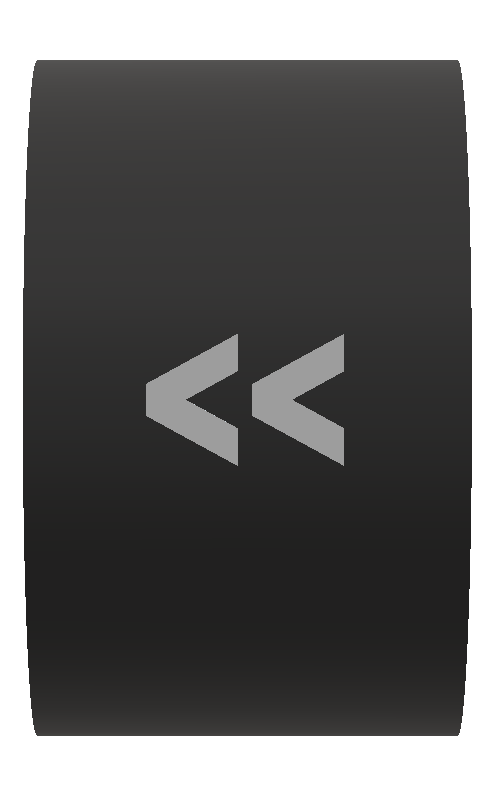
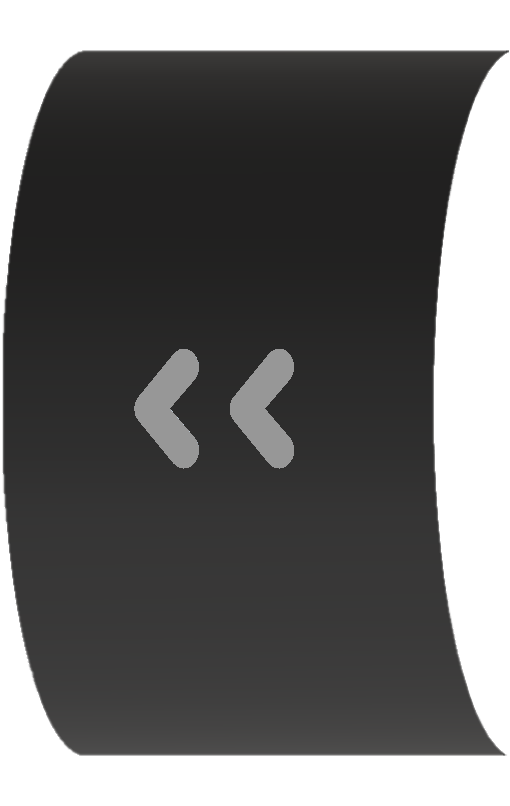
Improved graphics and fonts; scoreboard skeleton added; fonts to be gitignored for now

diff --git a/partillery/controls.py b/partillery/controls.py
@@ -1,7 +1,10 @@
 import pygame
 
 col_screen = 10, 10, 10
-col_text = 200, 200, 200
+col_text_white = 230, 230, 230
+# col_text_yellow = 210, 196, 62
+# col_text_yellow = 255, 255, 128
+col_heading = 255, 210, 150
 col_fire = 200, 100, 40
 col_power = 200, 20, 40
 default_angle_val = 60
@@ -10,8 +13,10 @@ default_power_val = 50
 
 class ControlPanel:
     def __init__(self, screen: pygame.Surface, cpl_x, cpl_y, cpl_w, cpl_h, control_scale):
-        control_img = pygame.image.load(
-            "C:\\Data\\Study\\cloud\\___python_game\\partillery\\resources\\images\\control_panel.png").convert()
+        # control_img = pygame.image.load(
+          #  "C:\\Data\\Study\\cloud\\___python_game\\partillery\\resources\\images\\control_panel.png").convert()
+        control_img = pygame.image.load("../resources/images/control_panel_3.png").convert()
+
         self.surf = pygame.transform.scale(control_img, (cpl_w, cpl_h))
         self.rect = self.surf.get_rect()
         self.rect.x = cpl_x
@@ -19,86 +24,107 @@ class ControlPanel:
         screen.blit(self.surf, (cpl_x, cpl_y))
 
         # add and draw control elements
-        sec_w = cpl_w / 5
+
+
+        '''sec_w = cpl_w / 5
         wp_x = sec_w
         angle_x = sec_w * 2
         power_x = sec_w * 3
-        fire_x = sec_w * 4
-        text_y = self.rect.y + self.rect.h * 0.25
-        control_baseline_y = self.rect.y + self.rect.h * 0.4  # setting up a y-axis center line for controls
+        fire_x = sec_w * 4 '''
 
-        # load images
-        wp_img = pygame.image.load("C:\\Data\\Study\\cloud\\___python_game\\partillery\\resources\\images\\wp_list.png")
-        angle_img = pygame.image.load("C:\\Data\\Study\\cloud\\___python_game\\partillery\\resources\\images\\param_window.png")
-        angle_right_img = pygame.image.load("C:\\Data\\Study\\cloud\\___python_game\\partillery\\resources\\images\\inc_button.png")
-        angle_left_img = pygame.image.load("C:\\Data\\Study\\cloud\\___python_game\\partillery\\resources\\images\\dec_button.png")
-        power_img = pygame.image.load("C:\\Data\\Study\\cloud\\___python_game\\partillery\\resources\\images\\param_window.png")
-        power_bar_img = pygame.image.load("C:\\Data\\Study\\cloud\\___python_game\\partillery\\resources\\images\\power_bar.png")
-        power_inc_img = pygame.image.load("C:\\Data\\Study\\cloud\\___python_game\\partillery\\resources\\images\\inc_button.png")
-        power_dec_img = pygame.image.load("C:\\Data\\Study\\cloud\\___python_game\\partillery\\resources\\images\\dec_button.png")
-        fire_img = pygame.image.load("C:\\Data\\Study\\cloud\\___python_game\\partillery\\resources\\images\\param_window.png")
-        fire_text_img = pygame.image.load("C:\\Data\\Study\\cloud\\___python_game\\partillery\\resources\\images\\fire_text.png")
+        w1 = cpl_w / 5
+        rw = cpl_w - w1
+        sec_w = rw / 5
+        wp_x = w1
+        angle_x = w1 + sec_w
+        power_x = w1 + sec_w * 2
+        fire_x = w1 + sec_w * 3
 
-        # scale images
+        control_baseline_y = self.rect.y + self.rect.h * 0.45  # setting up a y-axis center line for controls
+
+        # create surfaces
+
+        wp_img = pygame.image.load("../resources/images/wp_list.png")
+        angle_img = pygame.image.load("../resources/images/param_window.png")
+        angle_dec_img = pygame.image.load("../resources/images/inc_button.png")
+        angle_inc_img = pygame.image.load("../resources/images/dec_button.png")
+        power_img = pygame.image.load("../resources/images/param_window.png")
+        power_bar_img = pygame.image.load("../resources/images/power_bar.png")
+        power_inc_img = pygame.image.load("../resources/images/inc_button.png")
+        power_dec_img = pygame.image.load("../resources/images/dec_button.png")
+        fire_img = pygame.image.load("../resources/images/param_window.png")
+        fire_text_img = pygame.image.load("../resources/images/fire_text.png")
+
+        # scale surfaces
+
         wp_surf = scale(wp_img, control_scale)
-        angle_left_surf = scale(angle_left_img, control_scale)
+        angle_inc_surf = scale(angle_inc_img, control_scale)
         angle_surf = scale(angle_img, control_scale)
-        angle_right_surf = scale(angle_right_img, control_scale)
+        angle_dec_surf = scale(angle_dec_img, control_scale)
         power_dec_surf = scale(power_dec_img, control_scale)
         power_surf = scale(power_img, control_scale)
         power_inc_surf = scale(power_inc_img, control_scale)
         power_bar_surf = scale(power_bar_img, control_scale)
         fire_surf = scale(fire_img, control_scale)
         fire_text_surf = scale(fire_text_img, control_scale / 1.2)
+        scoreboard_surf = pygame.Surface((int(sec_w * 0.8), int(cpl_h * 0.8)))
 
         # get rects with simple names
+
         self.wp = wp_surf.get_rect()
-        self.angle_left = angle_left_surf.get_rect()
+        self.angle_inc = angle_inc_surf.get_rect()
         self.angle_sel = angle_surf.get_rect()
-        self.angle_right = angle_right_surf.get_rect()
+        self.angle_dec = angle_dec_surf.get_rect()
         self.power_dec = power_dec_surf.get_rect()
         self.power = power_surf.get_rect()
         self.power_inc = power_inc_surf.get_rect()
         self.power_bar = power_bar_surf.get_rect()
         self.fire = fire_surf.get_rect()
         self.fire_text = fire_text_surf.get_rect()
+        self.scoreboard = scoreboard_surf.get_rect()
 
         # set positions
+
         self.wp.center = (wp_x + angle_x) / 2, control_baseline_y
         self.angle_sel.center = (angle_x + power_x) / 2, control_baseline_y
         self.power.center = (power_x + fire_x) / 2, control_baseline_y
-        self.power_bar.center = (power_x + fire_x) / 2, (control_baseline_y + self.rect.bottom) / 2
-        self.fire.center = (fire_x + self.rect.right) / 2, (self.rect.y + self.rect.h / 2)
-        self.angle_left.center = ((
-                                          angle_x + power_x) / 2) - self.angle_left.w / 2 - self.angle_sel.w / 2, control_baseline_y
-        self.angle_right.center = ((
-                                           angle_x + power_x) / 2) + self.angle_right.w / 2 + self.angle_sel.w / 2, control_baseline_y
-        self.power_dec.center = ((power_x + fire_x) / 2) - self.power_dec.w / 2 - self.power.w / 2, control_baseline_y
-        self.power_inc.center = ((power_x + fire_x) / 2) + self.power_inc.w / 2 + self.power.w / 2, control_baseline_y
+        # self.power_bar.center = (power_x + fire_x) / 2, (control_baseline_y + self.rect.bottom) / 2
+        # The 0.995 to place bar is irritating; need to fix
+        self.power_bar.center = (power_x + fire_x) / 2, 0.995*(self.power.bottom + self.rect.bottom) / 2
+        self.angle_inc.center = ((angle_x + power_x) / 2) - self.angle_inc.w / 4 - self.angle_sel.w / 2, control_baseline_y
+        self.angle_dec.center = ((angle_x + power_x) / 2) + self.angle_dec.w / 4 + self.angle_sel.w / 2, control_baseline_y
+        self.power_dec.center = ((power_x + fire_x) / 2) - self.power_dec.w / 4 - self.power.w / 2, control_baseline_y
+        self.power_inc.center = ((power_x + fire_x) / 2) + self.power_inc.w / 4 + self.power.w / 2, control_baseline_y
+        self.fire.center = (fire_x + (fire_x + sec_w)) / 2, (self.rect.y + self.rect.h / 2)
+        self.fire_text.center = self.fire.center
+        self.scoreboard.center = (self.fire.centerx + sec_w, self.rect.centery)
 
         # control windows
 
-        self.wp_viewer = pygame.Surface((int(self.wp.w * 0.7), int(self.wp.h * 0.5)))
+        self.wp_viewer = pygame.Surface((int(self.wp.w * 0.8), int(self.wp.h * 0.6)))
         self.wp_viewer_rect = self.wp_viewer.get_rect()
         self.wp_viewer.fill(col_screen)
         self.wp_viewer_rect.center = self.wp.center
 
-        self.angle_viewer = pygame.Surface((int(self.angle_sel.w * 0.7), int(self.angle_sel.h * 0.5)))
+        self.angle_viewer = pygame.Surface((int(self.angle_sel.w * 0.65), int(self.angle_sel.h * 0.6)))
         self.angle_viewer_rect = self.angle_viewer.get_rect()
         self.angle_viewer.fill(col_screen)
         self.angle_viewer_rect.center = self.angle_sel.center
 
-        self.power_viewer = pygame.Surface((int(self.power.w * 0.7), int(self.power.h * 0.5)))
+        self.power_viewer = pygame.Surface((int(self.power.w * 0.65), int(self.power.h * 0.6)))
         self.power_viewer_rect = self.power_viewer.get_rect()
         self.power_viewer.fill(col_screen)
         self.power_viewer_rect.center = self.power.center
 
-        self.power_bar_viewer = pygame.Surface((int(self.power_bar.w * 0.8), int(self.power_bar.h * 0.5)))
+        self.power_bar_viewer = pygame.Surface((int(self.power_bar.w * 0.8), int(self.power_bar.h * 0.6)))
         self.power_bar_viewer_rect = self.power_bar_viewer.get_rect()
         self.power_bar_viewer_rect.center = self.power_bar.center
         self.power_bar_viewer.fill(col_screen)  # background fill
 
+        scoreboard_surf.fill(col_screen)
+
         # fill area max size and loc
+
         self.fill_w = int(self.power_bar.w * 0.78)
         self.fill_h = int(self.power_bar.h * 0.44)
         self.fill_x = int(self.power_bar_viewer_rect.x + (self.power_bar_viewer_rect.w - self.fill_w) / 2)
@@ -106,36 +132,51 @@ class ControlPanel:
         self.power_bar_fill_area = pygame.Rect(self.fill_x, self.fill_y, self.fill_w, self.fill_h)  # max area
 
         # display text
-        # font = pygame.font.Font("C:\\WINDOWS\\Fonts\\ARIALN.ttf", 32)
-        self.font = pygame.font.SysFont("segoeui", 13, True)
+        # self.font_param = pygame.font.SysFont("segoeui", 13, True)
+        self.font_param = pygame.font.Font("../resources/fonts/expressway.ttf", 13)
+        # self.font_heading = pygame.font.SysFont("comicsansms", 16, True)
+        self.font_heading = pygame.font.Font("../resources/fonts/expressway.ttf", 15)
 
-        self.angle_text = self.font.render(str(default_angle_val), True, col_text, col_screen)
+        self.angle_text = self.font_param.render(str(default_angle_val), True, col_text_white, col_screen)
         self.angle_text_rect = self.angle_text.get_rect()
         self.angle_text_rect.center = self.angle_viewer_rect.center
 
-        self.power_text = self.font.render(str(default_power_val), True, col_text, col_screen)
+        self.angle_heading = self.font_heading.render("Angle", True, col_text_white)
+        self.angle_heading_rect = self.angle_heading.get_rect()
+        self.angle_heading_rect.center = (self.angle_viewer_rect.centerx, (self.angle_viewer_rect.top + self.rect.top) / 2)
+
+        self.power_text = self.font_param.render(str(default_power_val), True, col_text_white, col_screen)
         self.power_text_rect = self.power_text.get_rect()
         self.power_text_rect.center = self.power_viewer_rect.center
 
-        self.wp_text = self.font.render("Plain ammo", True, col_text, col_screen)
+        self.power_heading = self.font_heading.render("Power", True, col_text_white)
+        self.power_heading_rect = self.power_heading.get_rect()
+        self.power_heading_rect.center = (self.power_viewer_rect.centerx, (self.power_viewer_rect.top + self.rect.top) / 2)
+
+        self.wp_text = self.font_param.render("Plain ammo", True, col_text_white, col_screen)
         self.wp_text_rect = self.wp_text.get_rect()
         self.wp_text_rect.center = self.wp_viewer_rect.center
+
+        self.wp_heading = self.font_heading.render("Weapon", True, col_text_white)
+        self.wp_heading_rect = self.wp_heading.get_rect()
+        self.wp_heading_rect.center = (self.wp_viewer_rect.centerx, (self.wp_viewer_rect.top + self.rect.top) / 2)
+
+        self.scoreboard_heading = self.font_param.render("Scoreboard", True, col_text_white)
+        self.scoreboard_heading_rect = self.scoreboard_heading.get_rect()
+        self.scoreboard_heading_rect.center = (self.scoreboard.centerx, self.scoreboard.top + self.scoreboard.h / 15)
 
         '''self.fire_text = self.font.render("Fire", True, col_fire)
         self.fire_text_rect = self.fire_text.get_rect()
         self.fire_text_rect.center = self.fire.center'''
-        self.fire_text.center = self.fire.center
 
-        # power_bar_fill_rect = power_bar
-        # power_viewer_rect.w = power_viewer_rect.w * 10 / 100
-        # power_bar_viewer.fill(col_day)
 
         # draw control elements
+
         screen.blits(((wp_surf, self.wp), (angle_surf, self.angle_sel), (power_surf, self.power),
                       (power_bar_surf, self.power_bar),
                       (fire_surf, self.fire),
-                      (angle_right_surf, self.angle_right),
-                      (angle_left_surf, self.angle_left),
+                      (angle_dec_surf, self.angle_dec),
+                      (angle_inc_surf, self.angle_inc),
                       (power_inc_surf, self.power_inc),
                       (power_dec_surf, self.power_dec),
                       (self.wp_viewer, self.wp_viewer_rect),
@@ -147,7 +188,12 @@ class ControlPanel:
                       (self.power_text, self.power_text_rect),
                       (self.wp_text, self.wp_text_rect),
                       # (self.fire_text, self.fire_text_rect)
-                      (fire_text_surf, self.fire_text)
+                      (self.angle_heading, self.angle_heading_rect),
+                      (self.power_heading, self.power_heading_rect),
+                      (self.wp_heading, self.wp_heading_rect),
+                      (fire_text_surf, self.fire_text),
+                      (scoreboard_surf, self.scoreboard),
+                      (self.scoreboard_heading, self.scoreboard_heading_rect)
                       ), 0)
 
         # fill bar at the end
@@ -158,12 +204,12 @@ class ControlPanel:
 
     def update_angle(self, screen: pygame.Surface, val):
         self.angle_viewer.fill(col_screen)
-        self.angle_text = self.font.render(str(val), True, col_text, col_screen)
+        self.angle_text = self.font_param.render(str(val), True, col_text_white, col_screen)
         screen.blits(((self.angle_viewer, self.angle_viewer_rect), (self.angle_text, self.angle_text_rect)), 0)
 
     def update_power(self, screen: pygame.Surface, val):
         self.power_viewer.fill(col_screen)
-        self.power_text = self.font.render(str(val), True, col_text, col_screen)
+        self.power_text = self.font_param.render(str(val), True, col_text_white, col_screen)
         screen.blits(((self.power_viewer, self.power_viewer_rect), (self.power_text, self.power_text_rect)), 0)
         # redraw power bar fill
         pygame.draw.rect(screen, col_screen, (self.fill_x, self.fill_y, self.fill_w, self.fill_h))

diff --git a/partillery/game.py b/partillery/game.py
@@ -91,12 +91,11 @@ speed_base = 1000
 # Initialize Display Elements
 
 pygame.display.set_caption("Partillery")
-pygame.display.set_icon(pygame.image.load("C:\\Data\\Study\\cloud\\___python_game\\partillery\\resources\\images\\window_icon.png"))
+pygame.display.set_icon(pygame.image.load("../resources/images/window_icon.png"))
 os.environ['SDL_VIDEO_WINDOW_POS'] = "%d,%d" % (100, 40)
 screen = pygame.display.set_mode((full_w, full_h), pygame.RESIZABLE)
 screen.fill(col_screen)
-play_img = pygame.image.load(
-    "C:\\Data\\Study\\cloud\\___python_game\\partillery\\resources\\images\\nighthd_starry.png").convert()
+play_img = pygame.image.load("../resources/images/nighthd_starry.png").convert()
 playsurf = pygame.transform.scale(play_img, (play_w, play_h))
 playsurf_rect = playsurf.get_rect()
 playsurf_rect.x = play_left
@@ -161,7 +160,7 @@ while True:
                     t0 = pygame.time.get_ticks()
 
                 # ANGLE LEFT
-                if cpl.angle_left.collidepoint(event.pos):
+                if cpl.angle_inc.collidepoint(event.pos):
                     curr_player.angle += 1
                     if curr_player.angle == 360:
                         curr_player.angle = 0
@@ -170,7 +169,7 @@ while True:
                     update_turret(screen, curr_player.tank, curr_player.angle)
 
                 # ANGLE RIGHT
-                if cpl.angle_right.collidepoint(event.pos):
+                if cpl.angle_dec.collidepoint(event.pos):
                     curr_player.angle -= 1
                     if curr_player.angle < 0:
                         curr_player.angle = 359

diff --git a/partillery/tank.py b/partillery/tank.py
@@ -7,8 +7,7 @@ col_turret = 200, 200, 200
 class Tank(pygame.sprite.Sprite):
     def __init__(self, screen, play_left, play_top, col, loc_x, loc_y, angle):
         super(Tank, self).__init__
-        self.surf = pygame.image.load(
-            "C:\\Data\\Study\\cloud\\___python_game\\partillery\\resources\\images\\tank_" + col + ".png")
+        self.surf = pygame.image.load("../resources/images/tank_" + col + ".png")
         self.rect = self.surf.get_rect()
         self.rect.x = loc_x
         self.rect.y = loc_y

diff --git a/partillery/terrain.py b/partillery/terrain.py
@@ -5,7 +5,7 @@ class Terrain(pygame.sprite.Sprite):
     def __init__(self, screen, play_left, play_w, play_bottom, terrain_h):
         super(Terrain, self).__init__
         self.surf = pygame.transform.scale(
-            pygame.image.load("C:\\Data\\Study\\cloud\\___python_game\\partillery\\resources\\images\\terrain.png"),
+            pygame.image.load("../resources/images/terrain.png"),
             (play_w, terrain_h))
         self.rect = self.surf.get_rect()
         self.rect.x = play_left

diff --git a/partillery/crosshair.py b/partillery/crosshair.py
@@ -5,8 +5,7 @@ import math
 class CrossHair(pygame.sprite.Sprite):
     def __init__(self, screen, play_left, play_top, start_pos, angle, r):
         super(CrossHair, self).__init__
-        img = pygame.image.load(
-            "C:\\Data\\Study\\cloud\\___python_game\\partillery\\resources\\images\\crosshair.png")
+        img = pygame.image.load("../resources/images/crosshair.png")
         self.surf = scale(img, 8)
         self.rect = self.surf.get_rect()
         self.x0 = start_pos[0]

diff --git a/partillery/ammo.py b/partillery/ammo.py
@@ -4,8 +4,7 @@ import pygame
 class Ammo(pygame.sprite.Sprite):
     def __init__(self, screen, play_left, play_top, ammo_x0, ammo_y0):
         super(Ammo, self).__init__
-        self.surf = pygame.image.load(
-            "C:\\Data\\Study\\cloud\\___python_game\\partillery\\resources\\images\\ammo_4.gif")
+        self.surf = pygame.image.load("../resources/images/ammo_4.gif")
         self.surf.set_alpha(255)
         self.rect = self.surf.get_rect()
         self.rect.x = ammo_x0
